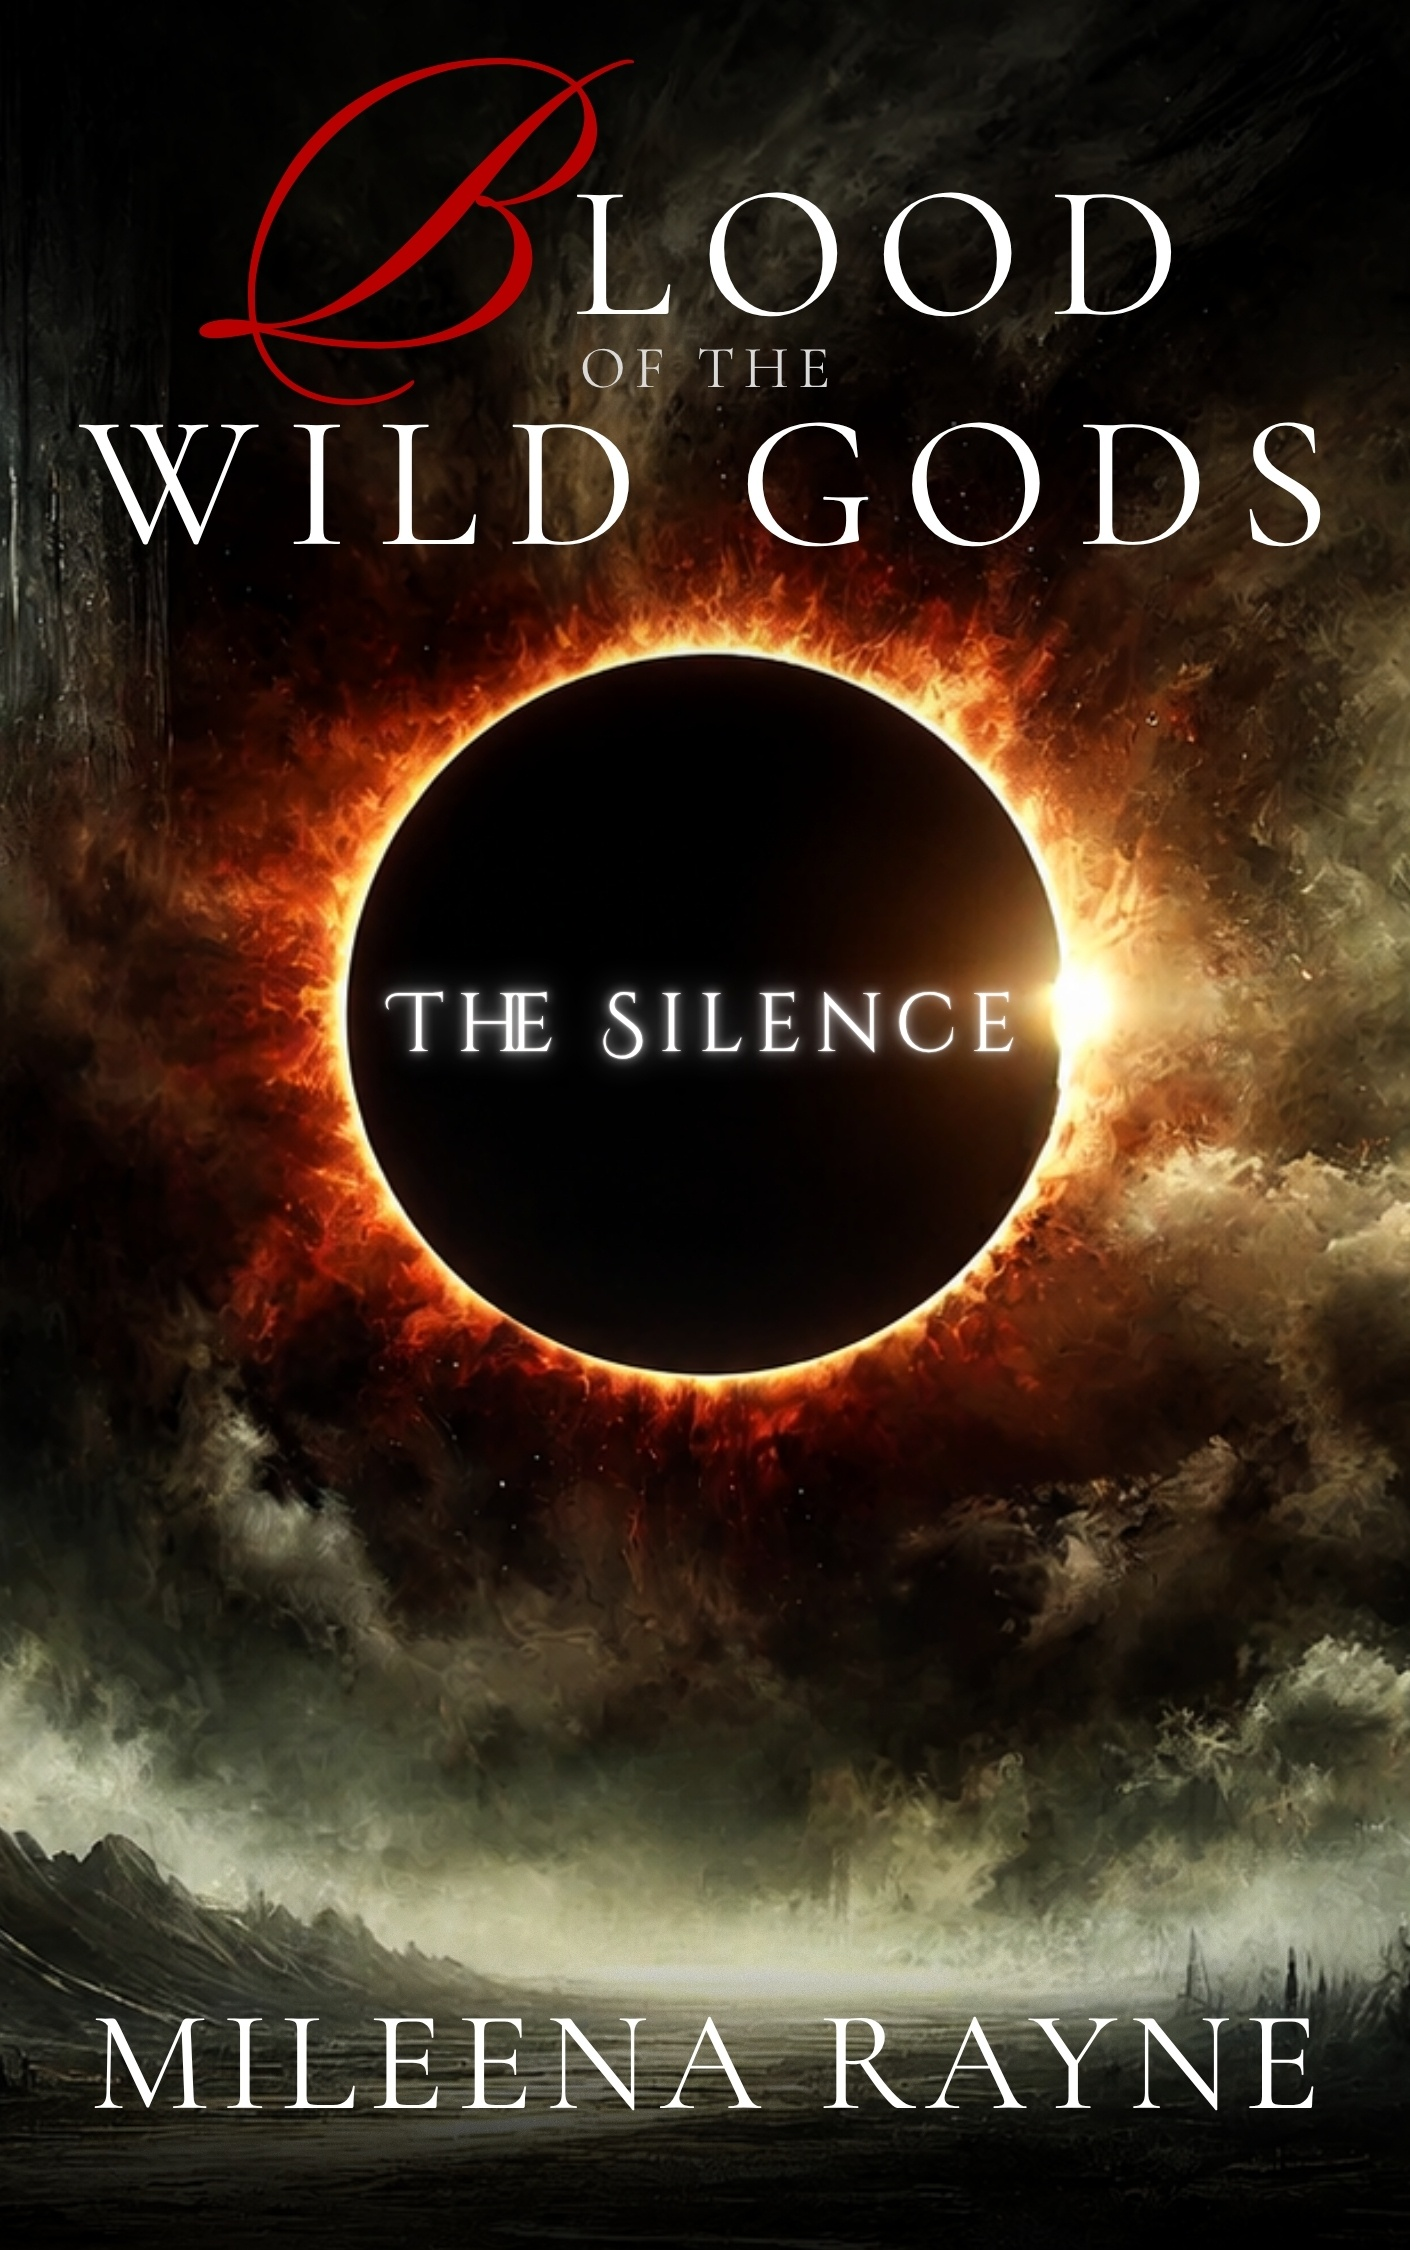
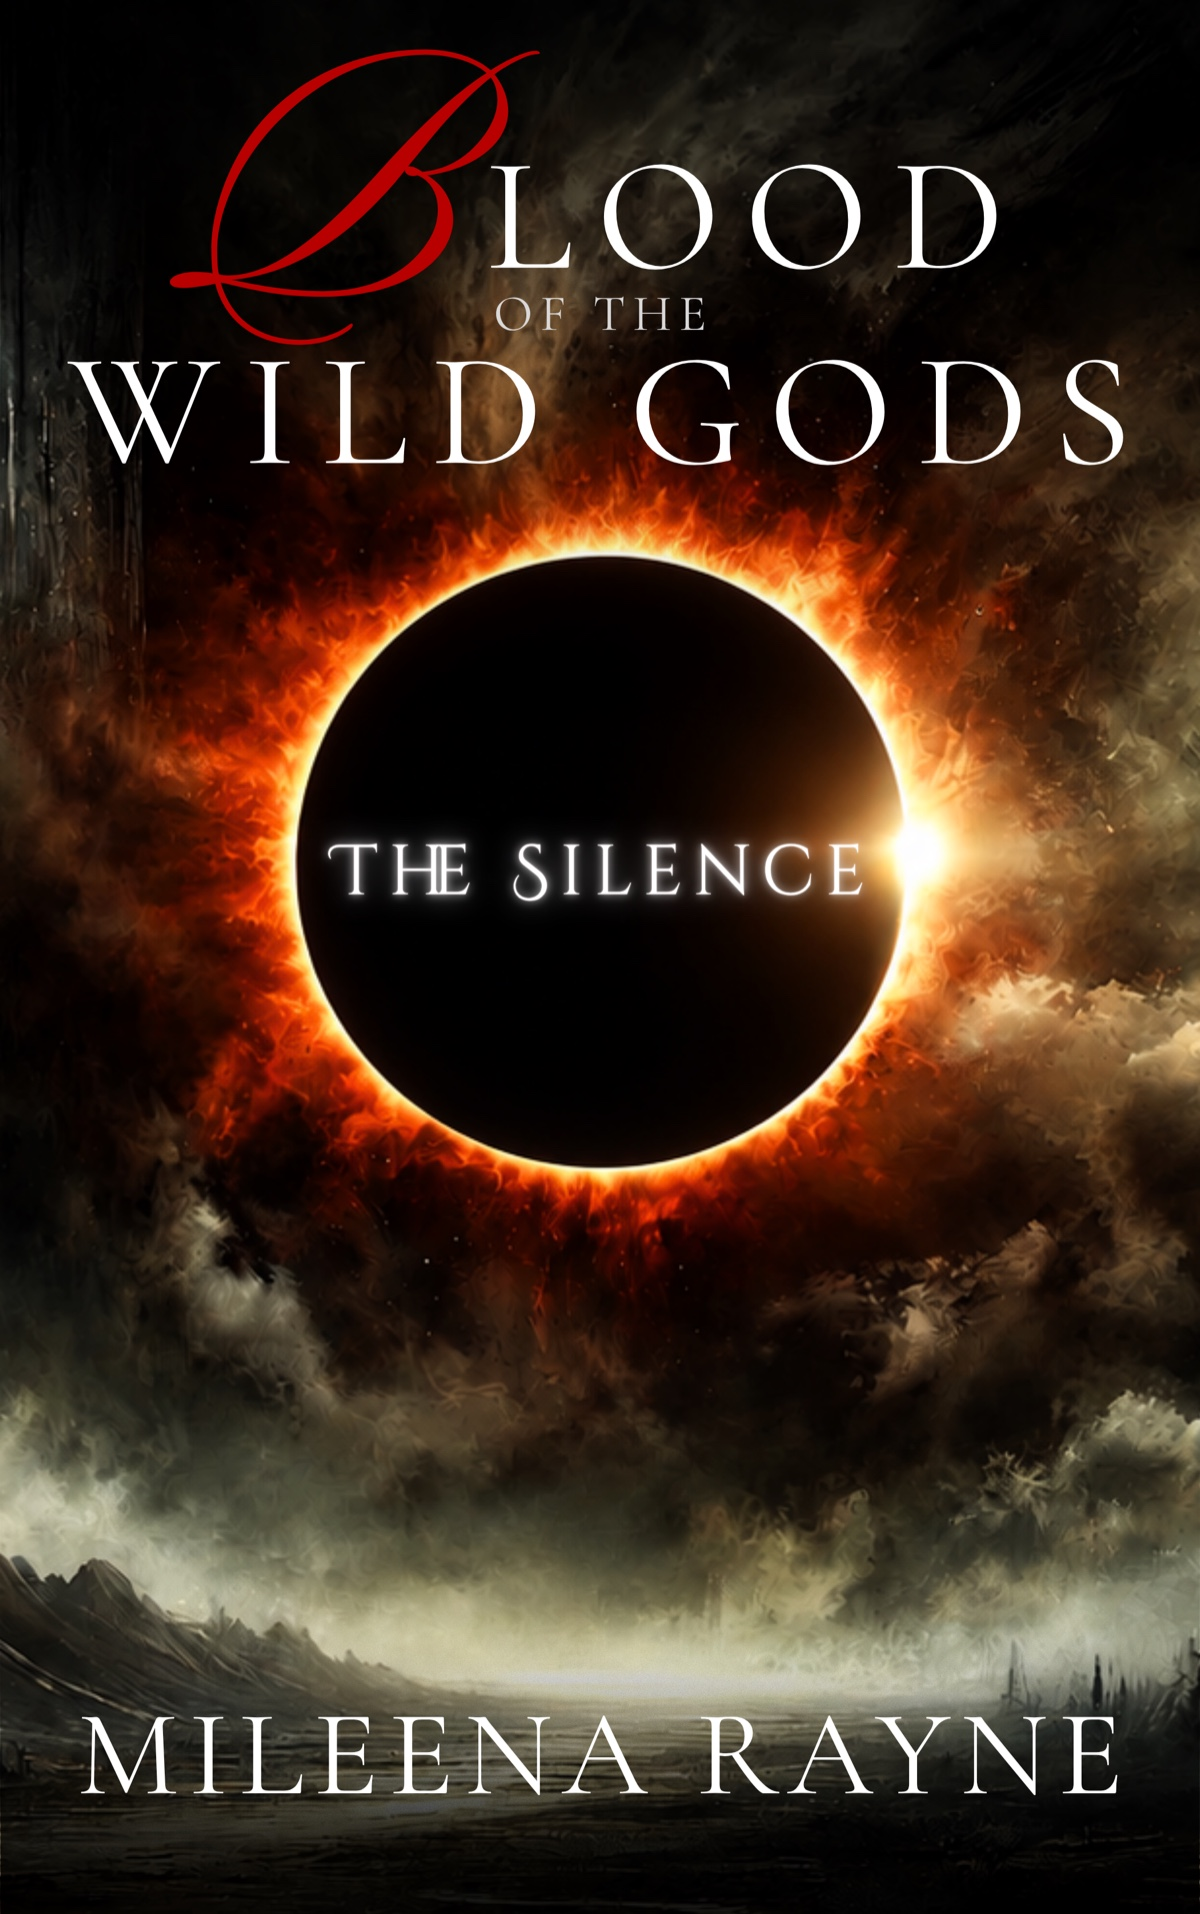
Replace The Silence cover across website with supplied final artwork

diff --git a/writing/index.html b/writing/index.html
@@ -37,7 +37,7 @@ canonical: "https://mileenarayne.com/writing/"
           <div><p class="books-status status-available">Available now</p><h3 id="chosen-title"><a href="/writing/the-chosen-chronicles/">The Chosen</a></h3><ul class="books-tags" aria-label="Genres and themes" role="list"><li>Dark fantasy</li><li>Religious horror</li><li>Reclaiming freedom</li></ul><p class="books-format">The Chosen Chronicles · Book 1</p><p>Lucien Altheris, The Son of Zenith, promises salvation to Mira Roehart’s hometown. As faith becomes control, she must find a way to reclaim her life.</p><div class="books-links"><a class="home-button home-button-small" href="/chapters/the-chosen/chapter-01/">Read the first chapter →</a>{% include chosen-purchase-links.html %}<a class="home-text-link" href="/writing/the-chosen-chronicles/">About the series →</a><a class="home-text-link" href="/the-chosen-soundtrack/">Listen to the soundtrack →</a></div></div>
         </article>
         <article class="books-feature books-feature-rewrite" id="silence-update" aria-labelledby="silence-title">
-          <a class="books-cover-link" href="/writing/the-silence/"><img class="books-feature-cover" src="/assets/images/The%20Silence%202nd%20Edition%20Cover%20Updated600.jpg" alt="The Silence — new cover" width="600" height="900"></a>
+          <a class="books-cover-link" href="/writing/the-silence/"><img class="books-feature-cover" src="/assets/images/the-silence-cover-2026.jpg" alt="The Silence — new cover" width="1200" height="1914"></a>
           <div><p class="books-status status-rewrite">Rewrite complete</p><h3 id="silence-title"><a href="/writing/the-silence/">The Silence</a></h3><ul class="books-tags" aria-label="Genres and themes" role="list"><li>Dark fantasy</li><li>Awakening gods</li><li>The price of power</li></ul><p class="books-format">A new release is coming soon</p><p>A hunter fears the power awakening beneath his skin. A healer searches for the cause of a spreading violence. Across Arcadia, a voice offers each listener what they want most.</p><div class="books-rewrite-note"><strong>A note from me</strong><p>The rewrite of <em>The Silence</em> is finished. You can now read the revised opening while the new edition is being prepared for release.</p></div><div class="books-links"><a class="home-text-link" href="/chapters/the-silence/chapter-01/">Read the revised first chapter →</a><a class="home-text-link" href="/writing/the-silence/">About The Silence →</a><a class="home-text-link" href="/the-silence-soundtrack/">Listen to the soundtrack →</a><a class="home-text-link" href="/contact/">Stay connected for updates →</a></div></div>
         </article>
       </div>
@@ -57,7 +57,7 @@ canonical: "https://mileenarayne.com/writing/"
           <article class="books-project books-oracle"><img src="/assets/images/almanac-of-stars-cover-final.png" alt="Almanac of Stars cover" width="1410" height="2250" loading="lazy"><div><p class="books-status status-available">Almanac of Stars · Available now</p><h4>The Siren Bone Oracle</h4><ul class="books-tags" aria-label="Genres and themes" role="list"><li>Fantasy lore</li><li>Divination</li><li>Astrology</li></ul><p>Athea’s work brings together the Common Calendar, the Blood and Bone Tarot, and Arcadian Astrology: ways of navigating life and fate after the gods withdraw.</p><p class="books-format">Kindle · Paperback · Hardcover</p><div class="books-links"><a class="home-button home-button-small" href="/writing/almanac-of-stars/">Discover Almanac of Stars →</a><a class="home-text-link" href="https://www.amazon.com/dp/B0HN8CQ41F">Buy Kindle ↗</a><a class="home-text-link" href="https://www.amazon.com/dp/B0HN96T7GM">Buy paperback ↗</a><a class="home-text-link" href="https://www.amazon.com/dp/B0HN96YDP8">Buy hardcover ↗</a></div><p>Two companion guides, <em>Blood &amp; Bone Tarot</em> and <em>Arcadian Astrology</em>, are forthcoming.</p><details class="books-details"><summary>Explore the three guides <span aria-hidden="true">+</span></summary><div class="books-oracle-grid"><a href="/writing/almanac-of-stars/"><strong>Almanac of Stars</strong><span>Timekeeping, constellations, and daily divination.</span></a><a href="/writing/blood-bone-tarot/"><strong>Blood & Bone Tarot</strong><span>A 78-card system of fate and choice.</span></a><a href="/writing/arcadian-astrology/"><strong>Arcadian Astrology</strong><span>The constellations, houses, and moon phases.</span></a></div></details></div></article>
           <article class="books-project"><a class="books-cover-link" href="/writing/voices-of-the-wild/"><img src="/assets/images/voices-of-the-wild.png" alt="Voices of the Wild cover" width="600" height="900" loading="lazy"></a><div><p class="books-status status-progress">Work in progress</p><h4><a href="/writing/voices-of-the-wild/">Voices of the Wild</a></h4><ul class="books-tags" aria-label="Genres and themes" role="list"><li>Cosmic horror</li><li>Nature spirits</li><li>Forbidden knowledge</li></ul><p class="books-format">A scholar’s research journal</p><p>Alaquinn Althaea sets out to study nature spirits. Their warnings turn curiosity into a search for truths that might have been better left buried.</p><div class="books-links"><a class="home-text-link" href="/writing/voices-of-the-wild/">Explore the journal →</a><a class="home-text-link" href="/chapters/voices-of-the-wild/chapter-01/">Read the first chapter →</a></div></div></article>
         </li>
-        <li class="books-era" id="age-of-awakening" style="--era-color:#97bcca"><div class="books-era-heading"><span class="books-era-number" aria-hidden="true">03</span><p class="home-eyebrow">When silence spoke</p><h3>The Age of Awakening</h3><p>An ancient presence stirs, and five lives become bound to its awakening.</p></div><article class="books-project"><img src="/assets/images/The%20Silence%202nd%20Edition%20Cover%20Updated600.jpg" alt="The Silence — new cover" width="600" height="900" loading="lazy"><div><p class="books-status status-rewrite">The Silence · Rewrite complete</p><h4><a href="/writing/the-silence/">The Silence</a></h4><ul class="books-tags" aria-label="Genres and themes" role="list"><li>Dark fantasy</li><li>Awakening gods</li><li>The price of power</li></ul><p>The novel at the heart of the awakening. The rewrite is complete, with a new edition coming soon.</p><a class="home-text-link" href="#silence-update">See the rewrite update ↑</a></div></article></li>
+        <li class="books-era" id="age-of-awakening" style="--era-color:#97bcca"><div class="books-era-heading"><span class="books-era-number" aria-hidden="true">03</span><p class="home-eyebrow">When silence spoke</p><h3>The Age of Awakening</h3><p>An ancient presence stirs, and five lives become bound to its awakening.</p></div><article class="books-project"><img src="/assets/images/the-silence-cover-2026.jpg" alt="The Silence — new cover" width="1200" height="1914" loading="lazy"><div><p class="books-status status-rewrite">The Silence · Rewrite complete</p><h4><a href="/writing/the-silence/">The Silence</a></h4><ul class="books-tags" aria-label="Genres and themes" role="list"><li>Dark fantasy</li><li>Awakening gods</li><li>The price of power</li></ul><p>The novel at the heart of the awakening. The rewrite is complete, with a new edition coming soon.</p><a class="home-text-link" href="#silence-update">See the rewrite update ↑</a></div></article></li>
         <li class="books-era" id="age-of-consequence" style="--era-color:#ceabbf"><div class="books-era-heading"><span class="books-era-number" aria-hidden="true">04</span><p class="home-eyebrow">After the awakening</p><h3>The Age of Consequence</h3><p>Faith, freedom, and the lives shaped by what came before.</p></div>
           <article class="books-project"><a class="books-cover-link" href="/writing/the-chosen-chronicles/"><img src="/assets/images/the-chosen-chronicles.png" alt="The Chosen Chronicles cover" width="600" height="900" loading="lazy"></a><div><p class="books-status status-available">Book 1 available · Series in progress</p><h4><a href="/writing/the-chosen-chronicles/">The Chosen Chronicles</a></h4><ul class="books-tags" aria-label="Genres and themes" role="list"><li>Dark fantasy</li><li>Religious horror</li><li>Survival &amp; healing</li></ul><p>A four-book journey following Mira Roehart through religious control, survival, and the long work of reclaiming a life. Begin with <em>The Chosen</em>, then follow the series in book order.</p><details class="books-details" open><summary>The series reading order <span aria-hidden="true">+</span></summary><ol class="books-series-order"><li><span>01</span><strong>The Chosen</strong><small>Available now</small></li><li><span>02</span><strong>The Forsaken</strong><small>Manuscript complete · Publication coming</small></li><li><span>03</span><strong>The Village</strong><small>Coming soon</small></li><li><span>04</span><strong>The Return</strong><small>Coming soon</small></li></ol></details><a class="home-text-link" href="/writing/the-chosen-chronicles/">Explore The Chosen Chronicles →</a></div></article>
           <article class="books-project books-cherry" id="cherry-tree">

diff --git a/writing/the-silence.html b/writing/the-silence.html
@@ -3,14 +3,14 @@ layout: default
 book_detail_page: true
 title: "The Silence | Blood of the Wild Gods | Mileena Rayne"
 description: "Explore The Silence, a dark fantasy novel by Mileena Rayne. The rewrite is complete. Read the revised first chapter and discover a story of divine inheritance, persecution, and found family."
-image: "/assets/images/The%20Silence%202nd%20Edition%20Cover%20Updated600.jpg"
+image: "/assets/images/the-silence-cover-2026.jpg"
 canonical: "https://mileenarayne.com/writing/the-silence/"
 ---
 <link rel="stylesheet" href="/assets/css/home.css?v={{ site.time | date: '%s' }}">
 <link rel="stylesheet" href="/assets/css/book-detail.css?v={{ site.time | date: '%s' }}">
 <div class="home-page book-detail"><div class="home-wrap">
 <nav class="book-breadcrumb" aria-label="Book navigation"><a href="/writing/">← All books</a><a href="#story">The story</a><a href="#characters">Characters</a><a href="#reviews">Reviews &amp; messages</a></nav>
-<header class="book-detail-hero"><figure><img src="/assets/images/The%20Silence%202nd%20Edition%20Cover%20Updated600.jpg" alt="The Silence — refreshed book cover" width="600" height="900"><figcaption>The refreshed cover is already here.</figcaption></figure><div><p class="home-eyebrow">Blood of the Wild Gods · The Age of Awakening</p><h1>The <em>Silence.</em></h1><p class="book-detail-genres">Dark fantasy · Awakening gods · The price of power</p><p class="book-detail-lead">The gods have grown quiet. Something else is answering.</p><aside class="book-rewrite"><strong>The rewrite is complete</strong><p>The new edition of <em>The Silence</em> is being prepared for Kindle, paperback, and hardcover. Explore the revised story below, or read the new first chapter.</p></aside><div class="home-actions"><a href="#story" class="home-button">Explore the story ↓</a><a href="/the-silence-soundtrack/" class="home-text-link">Listen to the soundtrack →</a></div></div></header>
+<header class="book-detail-hero"><figure><img src="/assets/images/the-silence-cover-2026.jpg" alt="The Silence — refreshed book cover" width="1200" height="1914"><figcaption>The refreshed cover is already here.</figcaption></figure><div><p class="home-eyebrow">Blood of the Wild Gods · The Age of Awakening</p><h1>The <em>Silence.</em></h1><p class="book-detail-genres">Dark fantasy · Awakening gods · The price of power</p><p class="book-detail-lead">The gods have grown quiet. Something else is answering.</p><aside class="book-rewrite"><strong>The rewrite is complete</strong><p>The new edition of <em>The Silence</em> is being prepared for Kindle, paperback, and hardcover. Explore the revised story below, or read the new first chapter.</p></aside><div class="home-actions"><a href="#story" class="home-button">Explore the story ↓</a><a href="/the-silence-soundtrack/" class="home-text-link">Listen to the soundtrack →</a></div></div></header>
 <section class="home-section book-story" id="story" aria-labelledby="story-heading"><div><p class="home-eyebrow">The story</p><h2 id="story-heading">The gods have grown quiet. Something else is answering.</h2></div><div><p>Across Arcadia, creatures born of divine blood roam the lands scarred by an ancient war. Hunting them has given Kaelen a livelihood and a purpose. Then a voice begins speaking inside his mind, and the power stirring beneath his skin threatens to make him one of the things he has spent his life killing.</p>
 <p>In the Verdant Veil, the forest no longer answers Elowen as it once did. Healers are disappearing. Violence is spreading among the people she has sworn to protect. Searching for its cause brings her into Kaelen’s path, where her determination to help meets a man with every reason to fear what help might uncover.</p>
 <p>They are not the only ones listening. A prince resents the limits of his birth. A young cub flees a clan that intends to sacrifice him. An Inquisitor condemns those touched by divine blood while trusting that the gods approve of what he does to them. Each hears a voice that understands what they fear—and offers what they want most.</p>

diff --git a/index.html b/index.html
@@ -40,7 +40,7 @@ canonical: "https://mileenarayne.com/"
       <p class="home-section-intro">Dark fantasy about faith, power, survival, and the people who refuse to surrender themselves. Two places to enter the same universe.</p>
       <div class="home-books">
         <article class="home-book home-book-update" id="silence-update" aria-labelledby="silence-title">
-          <a class="home-book-art" href="/writing/the-silence/"><img src="/assets/images/The%20Silence%202nd%20Edition%20Cover%20Updated600.jpg" alt="The Silence — new cover" width="600" height="900" loading="lazy"></a>
+          <a class="home-book-art" href="/writing/the-silence/"><img src="/assets/images/the-silence-cover-2026.jpg" alt="The Silence — new cover" width="1200" height="1914" loading="lazy"></a>
           <div class="home-book-copy">
             <p class="home-badge">A new chapter for this book</p>
             <h3 id="silence-title"><a href="/writing/the-silence/">The Silence</a></h3>

diff --git a/_chapters/the-silence/chapter-01.html b/_chapters/the-silence/chapter-01.html
@@ -5,7 +5,7 @@ title: "Chapter One"
 subtitle: "The Silence Before the Storm"
 description: "Read the revised first chapter of The Silence. Kaelen follows a Ridgeback Stalker into an unnatural silence in the Godscarred Wastes."
 excerpt: "For three days, Kaelen R’Veyne had followed the Ridgeback Stalker across the Godscarred Wastes. On the fourth morning, its trail disappeared into silence."
-image: /assets/images/The%20Silence%202nd%20Edition%20Cover%20Updated600.jpg
+image: /assets/images/the-silence-cover-2026.jpg
 date: 2025-01-15
 last_modified_at: 2026-10-25
 chapter_number: 1

diff --git a/_posts/2025-06-17-current-works-in-progress.md b/_posts/2025-06-17-current-works-in-progress.md
@@ -6,7 +6,7 @@ category: Writing
 description: "Inside look at my dark fantasy novels The Chosen and Lost Histories. Stories exploring cult psychology, religious trauma, and the deeper layers of human nature."
 excerpt: "I'm currently working on two very different projects that explore the psychology of cults, forgotten myths, and the deeper layers of what it means to be human."
 tags: [dark-fantasy, blood-of-wild-gods, cults, religious-trauma, fantasy-novels]
-image: "/assets/images/The%20Silence%202nd%20Edition%20Cover%20Updated600.jpg"
+image: "/assets/images/the-silence-cover-2026.jpg"
 ---
 
 I'm currently working on two very different projects. The first is *The Chosen*, the sequel to my debut novel *The Silence* in my *Blood of the Wild Gods* series. It takes place five years after the events of the first book. The realm is fractured. People are desperate for something to believe in—some steady ground after so many waves have crashed through their lives. Then a man appears from the eastern islands, bringing promises of light and order. In a time of chaos, people cling to it. And slowly, my main character's quiet coastal town begins to change.
